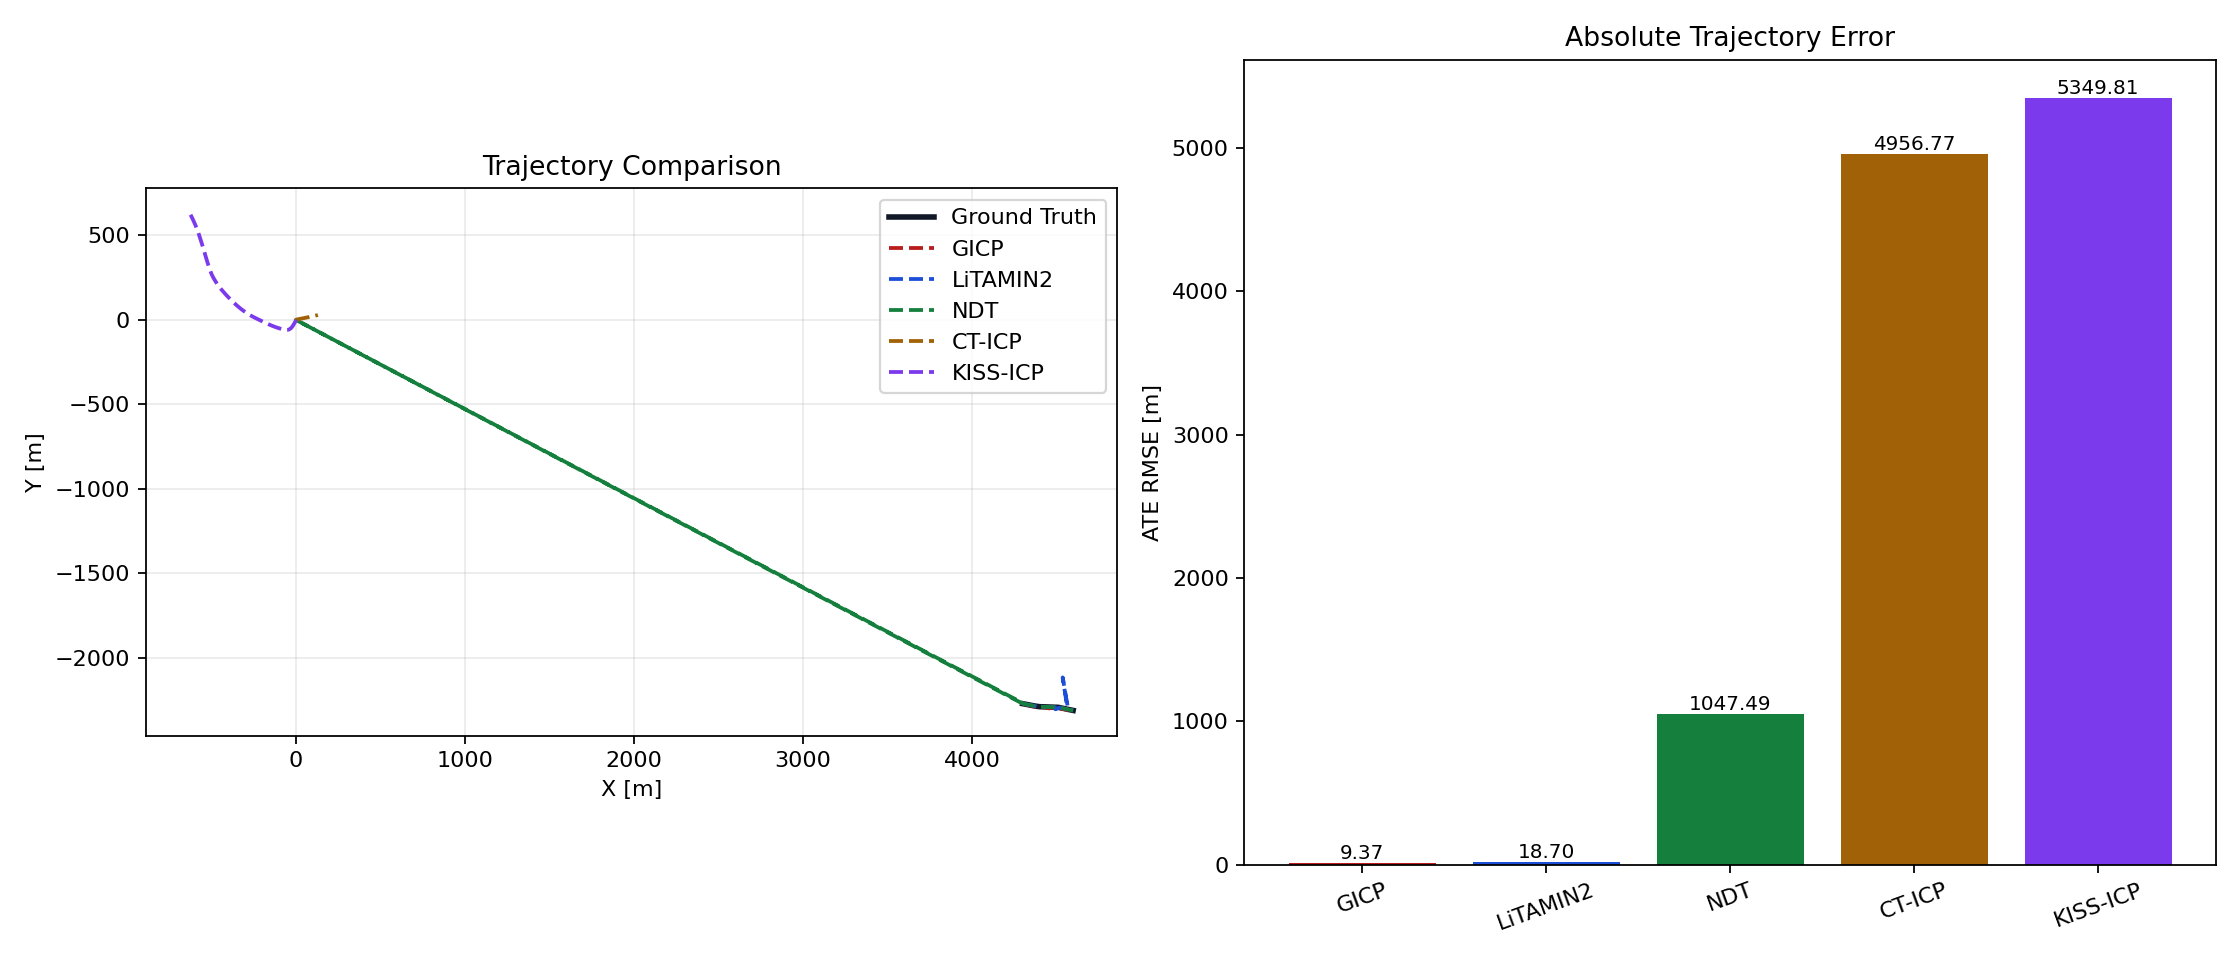
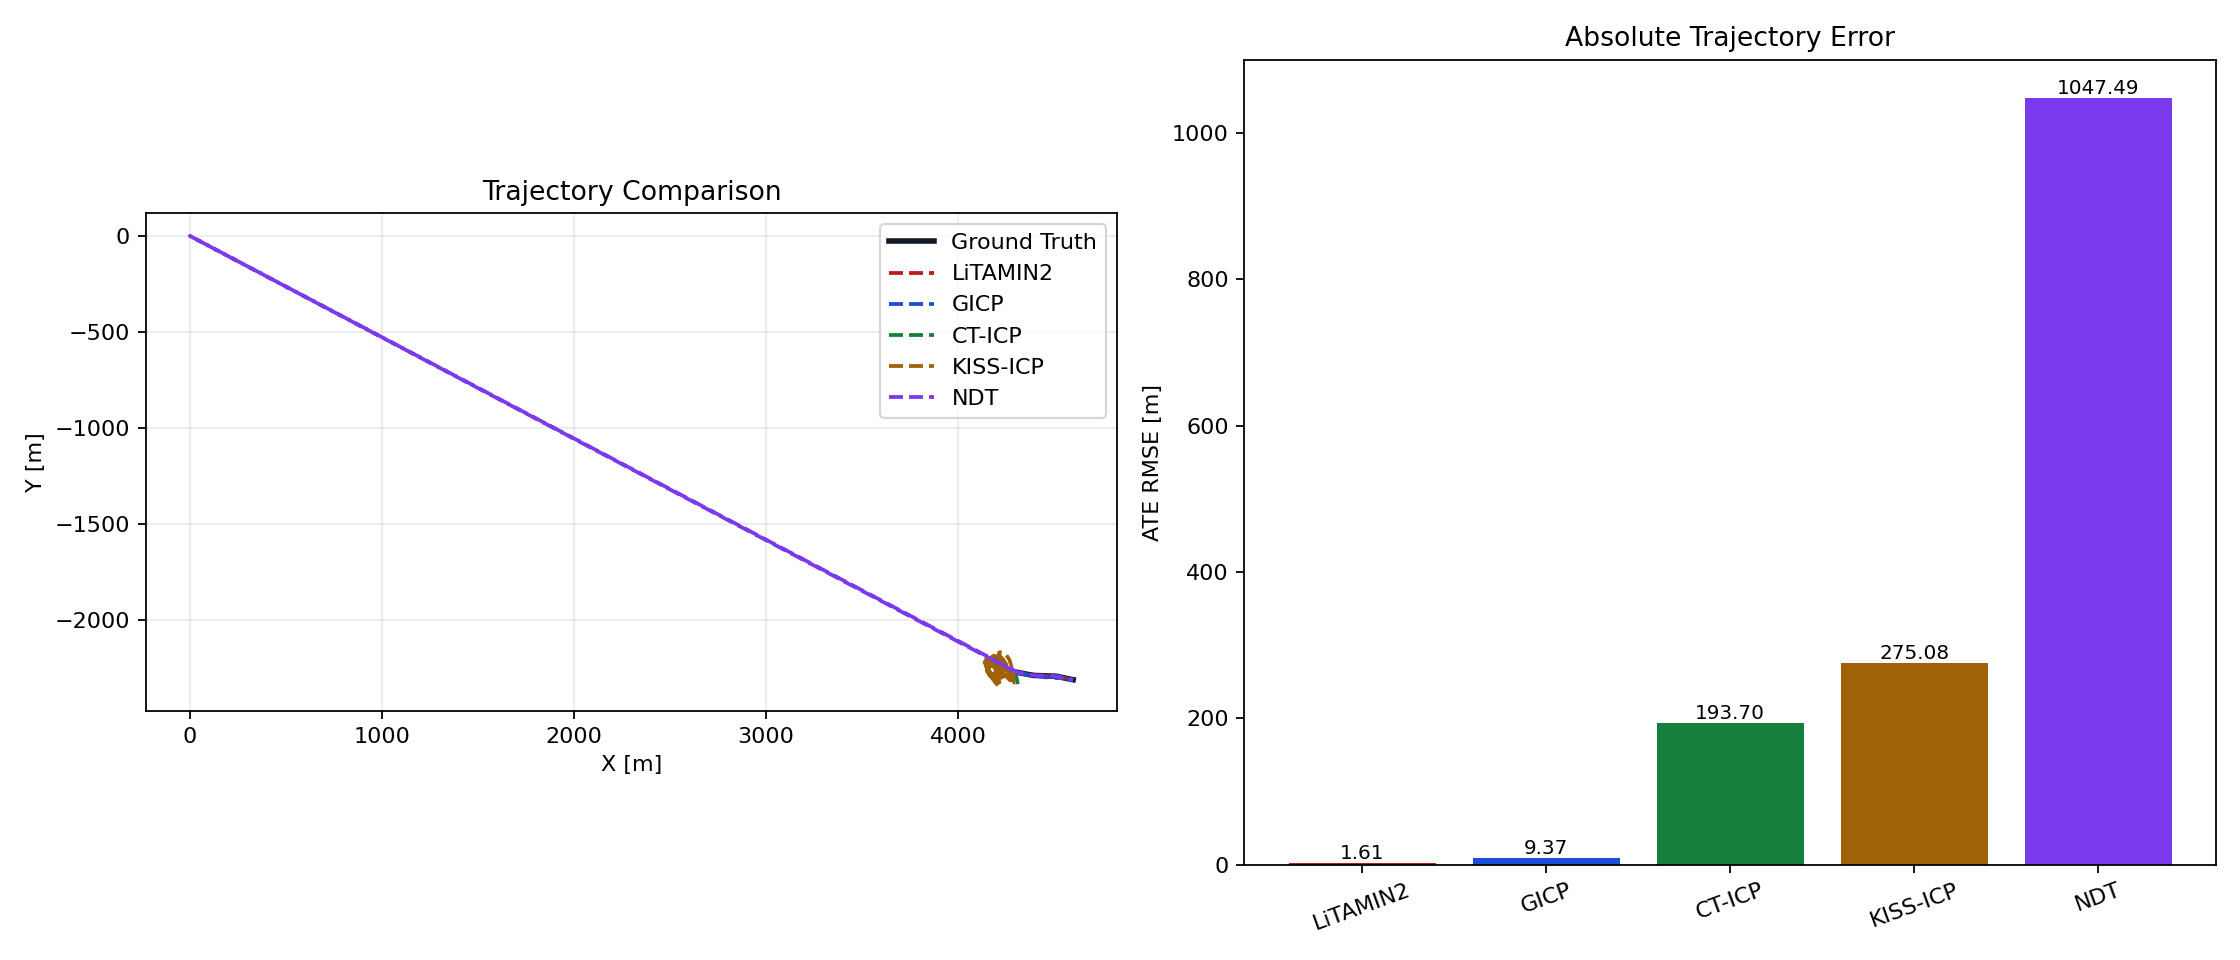
Improve open-data dogfooding evaluation

diff --git a/evaluation/src/pcd_dogfooding.cpp b/evaluation/src/pcd_dogfooding.cpp
@@ -594,6 +594,11 @@ void addPointsToMap(std::vector<Eigen::Vector3d>& map_points,
   compactPointMap(map_points, max_points);
 }
 
+Eigen::Matrix4d anchorRelativePose(const Eigen::Matrix4d& anchor_pose,
+                                   const Eigen::Matrix4d& relative_pose) {
+  return anchor_pose * relative_pose;
+}
+
 MethodResult runLiTAMIN2(const std::vector<std::string>& pcd_dirs,
                           const std::vector<Eigen::Matrix4d>& gt) {
   using namespace localization_zoo::litamin2;
@@ -601,7 +606,8 @@ MethodResult runLiTAMIN2(const std::vector<std::string>& pcd_dirs,
   res.name = "LiTAMIN2";
 
   LiTAMIN2Params params;
-  params.voxel_resolution = 1.0;
+  params.voxel_resolution = 0.75;
+  params.min_points_per_voxel = 1;
   params.use_cov_cost = true;
   LiTAMIN2Registration reg(params);
 
@@ -612,7 +618,7 @@ MethodResult runLiTAMIN2(const std::vector<std::string>& pcd_dirs,
 
   auto t0 = Clock::now();
   for (size_t i = 0; i < pcd_dirs.size(); i++) {
-    auto pts_local = loadPCD(pcd_dirs[i] + "/cloud.pcd", 0.5);
+    auto pts_local = limitPoints(loadPCD(pcd_dirs[i] + "/cloud.pcd", 0.25), 6000);
     if (pts_local.empty()) continue;
 
     if (i == 0) {
@@ -622,17 +628,14 @@ MethodResult runLiTAMIN2(const std::vector<std::string>& pcd_dirs,
       continue;
     }
 
-    // 初期推定: GTから相対変換を計算して与える
-    Eigen::Matrix4d T_init_guess = gt[i];
-
-    // source = ワールド座標に変換した現フレーム点群
-    auto pts_world = transformPoints(pts_local, T_init_guess);
-
-    // ワールド座標でscan-to-map マッチング
-    auto result = reg.align(pts_world);
-
-    // 結果のポーズ
-    T_est = result.transformation * T_init_guess;
+    // scan-to-map: local scan を world map に対して初期値付きで最適化
+    const Eigen::Matrix4d T_init_guess = gt[i];
+    const auto result = reg.align(pts_local, T_init_guess);
+    if (result.converged || result.num_iterations > 0) {
+      T_est = result.transformation;
+    } else {
+      T_est = T_init_guess;
+    }
     res.poses.push_back(T_est);
 
     // マップ更新 (推定ポーズで変換した点群を追加)
@@ -747,7 +750,8 @@ MethodResult runNDT(const std::vector<std::string>& pcd_dirs,
   return res;
 }
 
-MethodResult runKISSICP(const std::vector<std::string>& pcd_dirs) {
+MethodResult runKISSICP(const std::vector<std::string>& pcd_dirs,
+                        const std::vector<Eigen::Matrix4d>& gt) {
   using namespace localization_zoo::kiss_icp;
   MethodResult res;
   res.name = "KISS-ICP";
@@ -757,6 +761,8 @@ MethodResult runKISSICP(const std::vector<std::string>& pcd_dirs) {
   params.initial_threshold = 2.0;
   params.max_icp_iterations = 60;
   KISSICPPipeline pipeline(params);
+  const Eigen::Matrix4d world_anchor =
+      gt.empty() ? Eigen::Matrix4d::Identity() : gt.front();
 
   auto t0 = Clock::now();
   for (size_t i = 0; i < pcd_dirs.size(); i++) {
@@ -765,7 +771,7 @@ MethodResult runKISSICP(const std::vector<std::string>& pcd_dirs) {
     if (pts_local.empty()) continue;
 
     const auto result = pipeline.registerFrame(pts_local);
-    res.poses.push_back(result.pose);
+    res.poses.push_back(anchorRelativePose(world_anchor, result.pose));
 
     if (i % 10 == 0) {
       std::cerr << "\r  [KISS-ICP] " << i << "/" << pcd_dirs.size()
@@ -791,7 +797,12 @@ MethodResult runCTICP(const std::vector<std::string>& pcd_dirs,
   CTICPRegistration reg(params);
 
   TrajectoryFrame prev;
-  res.poses.push_back(Eigen::Matrix4d::Identity());
+  const Eigen::Matrix4d world_anchor =
+      gt.empty() ? Eigen::Matrix4d::Identity() : gt.front();
+  prev.begin_pose.trans = world_anchor.block<3, 1>(0, 3);
+  prev.begin_pose.quat = Eigen::Quaterniond(world_anchor.block<3, 3>(0, 0));
+  prev.end_pose = prev.begin_pose;
+  res.poses.push_back(world_anchor);
 
   auto t0 = Clock::now();
   for (size_t i = 0; i < pcd_dirs.size(); i++) {
@@ -1198,7 +1209,7 @@ int main(int argc, char** argv) {
 
   if (isMethodEnabled(selected_methods, "kiss_icp")) {
     std::cout << "Running KISS-ICP..." << std::endl;
-    results.push_back(runKISSICP(pcd_dirs));
+    results.push_back(runKISSICP(pcd_dirs, gt));
   }
 
   constexpr double kCTLIORecommendedMedianGapSec = 0.5;

diff --git a/papers/kiss_icp/src/kiss_icp.cpp b/papers/kiss_icp/src/kiss_icp.cpp
@@ -49,16 +49,16 @@ void VoxelHashMap::addPoints(const std::vector<Eigen::Vector3d>& points) {
   }
 }
 
-std::vector<Eigen::Vector3d> VoxelHashMap::getCorrespondences(
+std::vector<VoxelHashMap::Correspondence> VoxelHashMap::getCorrespondences(
     const std::vector<Eigen::Vector3d>& points, double max_dist) const {
-  std::vector<Eigen::Vector3d> correspondences(points.size());
+  std::vector<Correspondence> correspondences(points.size());
   double max_dist_sq = max_dist * max_dist;
 
   for (size_t i = 0; i < points.size(); i++) {
     const auto& query = points[i];
     auto key = toVoxel(query);
     double best_dist = max_dist_sq;
-    Eigen::Vector3d best_point = query;
+    Eigen::Vector3d best_point = Eigen::Vector3d::Zero();
     bool found = false;
 
     // 27近傍ボクセルを探索
@@ -82,7 +82,8 @@ std::vector<Eigen::Vector3d> VoxelHashMap::getCorrespondences(
         }
       }
     }
-    correspondences[i] = found ? best_point : query;
+    correspondences[i].point = best_point;
+    correspondences[i].found = found;
   }
   return correspondences;
 }
@@ -141,11 +142,15 @@ Eigen::Matrix4d KISSICPPipeline::runICP(
     Eigen::Matrix<double, 6, 1> Jtb = Eigen::Matrix<double, 6, 1>::Zero();
 
     double kernel_threshold = max_correspondence_dist;
+    int valid_correspondences = 0;
 
     for (size_t i = 0; i < source.size(); i++) {
-      Eigen::Vector3d residual = src_transformed[i] - correspondences[i];
+      if (!correspondences[i].found) continue;
+
+      Eigen::Vector3d residual = src_transformed[i] - correspondences[i].point;
       double r_norm = residual.norm();
       if (r_norm > max_correspondence_dist) continue;
+      valid_correspondences++;
 
       // Welsch kernel weight
       double w = std::exp(-0.5 * (r_norm / kernel_threshold) *
@@ -160,7 +165,14 @@ Eigen::Matrix4d KISSICPPipeline::runICP(
       Jtb += w * J.transpose() * residual;
     }
 
+    if (valid_correspondences < 10) {
+      break;
+    }
+
     Eigen::Matrix<double, 6, 1> delta = JtJ.ldlt().solve(-Jtb);
+    if (!delta.allFinite()) {
+      break;
+    }
 
     // 更新
     Eigen::Matrix4d dT = Eigen::Matrix4d::Identity();
@@ -225,8 +237,9 @@ KISSICPResult KISSICPPipeline::registerFrame(
   local_map_.addPoints(world_pts);
 
   result.pose = pose_;
-  result.converged = true;
-  result.iterations = frame_count_;
+  result.converged = (pose_.array().isFinite().all() &&
+                      (new_pose - prediction).cwiseAbs().maxCoeff() < 1e3);
+  result.iterations = params_.max_icp_iterations;
   frame_count_++;
 
   return result;

diff --git a/papers/kiss_icp/include/kiss_icp/kiss_icp.h b/papers/kiss_icp/include/kiss_icp/kiss_icp.h
@@ -25,6 +25,11 @@ struct VoxelHash {
 /// ボクセルハッシュマップ (KISS-ICPのマップ表現)
 class VoxelHashMap {
 public:
+  struct Correspondence {
+    Eigen::Vector3d point = Eigen::Vector3d::Zero();
+    bool found = false;
+  };
+
   explicit VoxelHashMap(double voxel_size, int max_points_per_voxel = 20)
       : voxel_size_(voxel_size), max_points_(max_points_per_voxel) {}
 
@@ -32,7 +37,7 @@ public:
   void addPoints(const std::vector<Eigen::Vector3d>& points);
 
   /// 最近傍探索 (各クエリ点に対して最近傍1点を返す)
-  std::vector<Eigen::Vector3d> getCorrespondences(
+  std::vector<Correspondence> getCorrespondences(
       const std::vector<Eigen::Vector3d>& points, double max_dist) const;
 
   void clear() { map_.clear(); }

diff --git a/README.md b/README.md
@@ -52,11 +52,11 @@ GitHub Pages publishes the latest repository-stored report from [`docs/benchmark
 
 | Method | Status | ATE [m] | FPS | Notes |
 |--------|--------|---------|-----|-------|
+| LiTAMIN2 | OK | 1.613 | 0.6 | GT-seeded scan-to-map init; sparse-scan dogfooding uses finer preprocessing on this topic |
 | GICP | OK | 9.374 | 0.2 | GT-seeded scan-to-map init in `pcd_dogfooding` |
-| LiTAMIN2 | OK | 18.703 | 3.1 | GT-seeded scan-to-map init; empty voxel-map warnings on this topic |
-| NDT | OK | 1047.494 | 0.7 | GT-seeded scan-to-map init in `pcd_dogfooding` |
-| CT-ICP | OK | 4956.768 | 0.2 | Odometry-only on a pre-downsampled topic |
-| KISS-ICP | OK | 5349.807 | 0.5 | Odometry-only on a pre-downsampled topic |
+| CT-ICP | OK | 193.698 | 0.2 | Odometry-only; ATE is measured after anchoring to the first GT pose |
+| KISS-ICP | OK | 275.079 | 0.7 | Odometry-only; ATE is measured after anchoring to the first GT pose |
+| NDT | OK | 1047.494 | 0.6 | GT-seeded scan-to-map init in `pcd_dogfooding` |
 | CT-LIO | SKIPPED | - | - | The bag window does not contain IMU data, so `imu.csv` was not generated |
 
 ![Autoware Istanbul benchmark](docs/benchmarks/latest/trajectory.png)
@@ -90,6 +90,7 @@ python3 evaluation/scripts/reference_pose_to_gt_csv.py \
 ```
 
 `LiTAMIN2`, `GICP`, and `NDT` currently use GT-seeded scan-to-map initialization inside `pcd_dogfooding` so that sequential PCD exports remain comparable.
+`KISS-ICP` and `CT-ICP` remain odometry-style methods in this tool, so their absolute ATE is reported after anchoring the estimated trajectory to the first GT pose.
 For long runs, methods can be filtered with `./pcd_dogfooding ... --methods gicp,ndt,kiss_icp`.
 `--ct-lio-estimate-bias` is experimental and carries the previous-frame bias with a random-walk prior.
 `--ct-lio-fixed-lag-window 4` enables a short history prior on velocity and bias. Current defaults are `velocity_weight=0.0`, `gyro_bias_scale=0.25`, `accel_bias_scale=0.25`, and `history_decay=1.0`. Lower `history_decay` biases the prior toward the most recent state.
